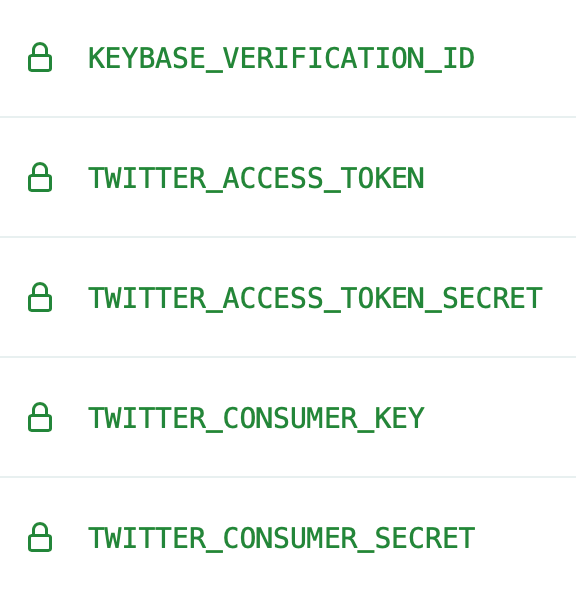
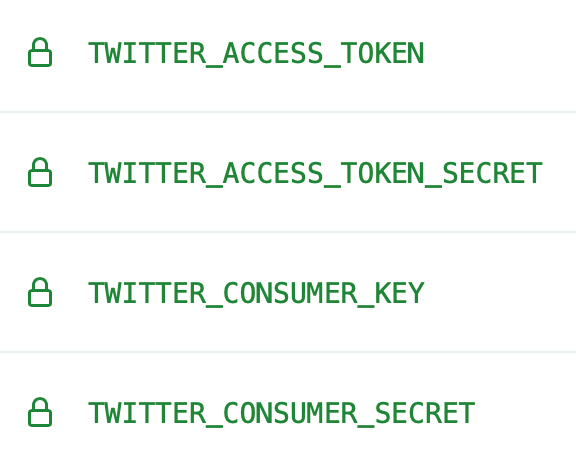
Don't ever remove tweets you favorited.

diff --git a/twitter_cleanup.rb b/twitter_cleanup.rb
@@ -6,11 +6,7 @@ require "json"
 require "twitter"
 
 class TwitterCleanup
-  YEAR_IN_SECONDS = 86_400 * 365
-
-  def keybase_verification_id
-    ENV["KEYBASE_VERIFICATION_ID"]
-  end
+  YEAR_IN_SECONDS = 86_400 * 366
 
   def tweet_ttl
     @tweet_ttl ||= Integer(ENV.fetch("TWEET_TTL", YEAR_IN_SECONDS))
@@ -32,6 +28,7 @@ class TwitterCleanup
   def destroy(id)
     client.destroy_status(id)
   rescue Twitter::Error::TooManyRequests => error
+    time = error.rate_limit.reset_in + 1
     puts "=> Error: too many requests (wait #{time}s)"
 
     sleep error.rate_limit.reset_in + 1
@@ -65,6 +62,8 @@ class TwitterCleanup
   end
 
   def call
+    process_favorites
+
     loop do
       tweets = timeline.reject {|tweet| tweet_ids.include?(tweet.id) }
 
@@ -81,10 +80,28 @@ class TwitterCleanup
     retry
   end
 
+  def process_favorites
+    loop do
+      since_id = favorite_ids.max || 1
+      new_favorite_ids = client
+                         .favorites(client.user, since_id: since_id)
+                         .map(&:id)
+
+      break if new_favorite_ids.empty?
+
+      favorite_ids.push(*new_favorite_ids)
+    rescue Twitter::Error::TooManyRequests => error
+      time = error.rate_limit.reset_in + 1
+      puts "=> Error: too many requests (wait #{time}s)"
+      sleep error.rate_limit.reset_in + 1
+      retry
+    end
+  end
+
   def process_tweet(tweet)
     tweet_ids << tweet.id
 
-    return if keybase_verification_id.to_i == tweet.id
+    return if favorite_ids.include?(tweet.id)
     return if tweet.created_at > Time.now.utc - tweet_ttl
 
     client.destroy_status(tweet)
@@ -92,6 +109,10 @@ class TwitterCleanup
 
   def tweet_ids
     @tweet_ids ||= []
+  end
+
+  def favorite_ids
+    @favorite_ids ||= []
   end
 end
 

diff --git a/README.md b/README.md
@@ -1,3 +1,6 @@
 Make sure you set the following secrets:
 
 ![](https://github.com/fnando/twitter_cleanup/raw/main/secrets.png)
+
+To avoid removing specific tweets, you need to favorite them; this script will
+ignore them.
